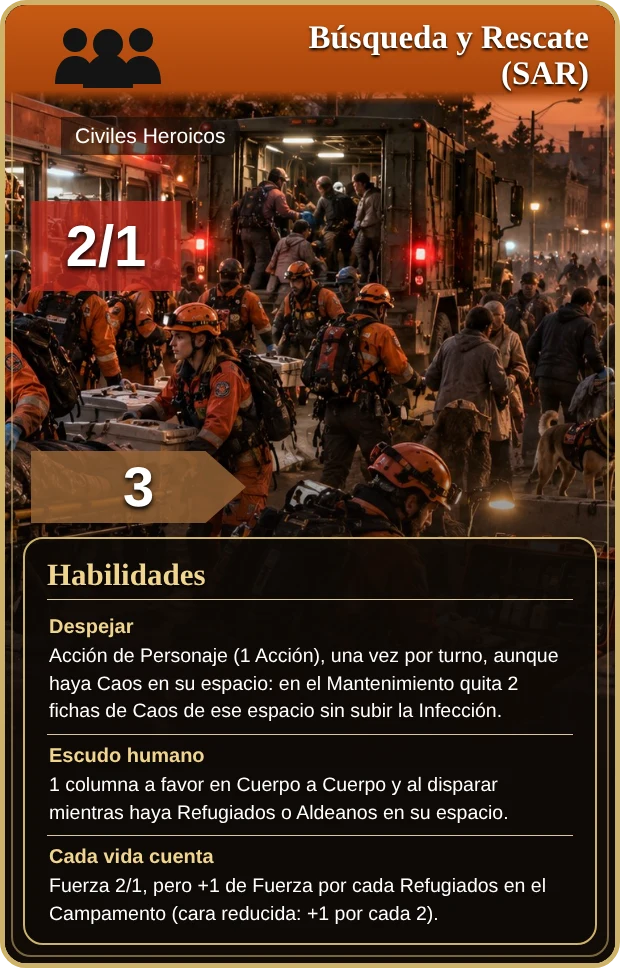
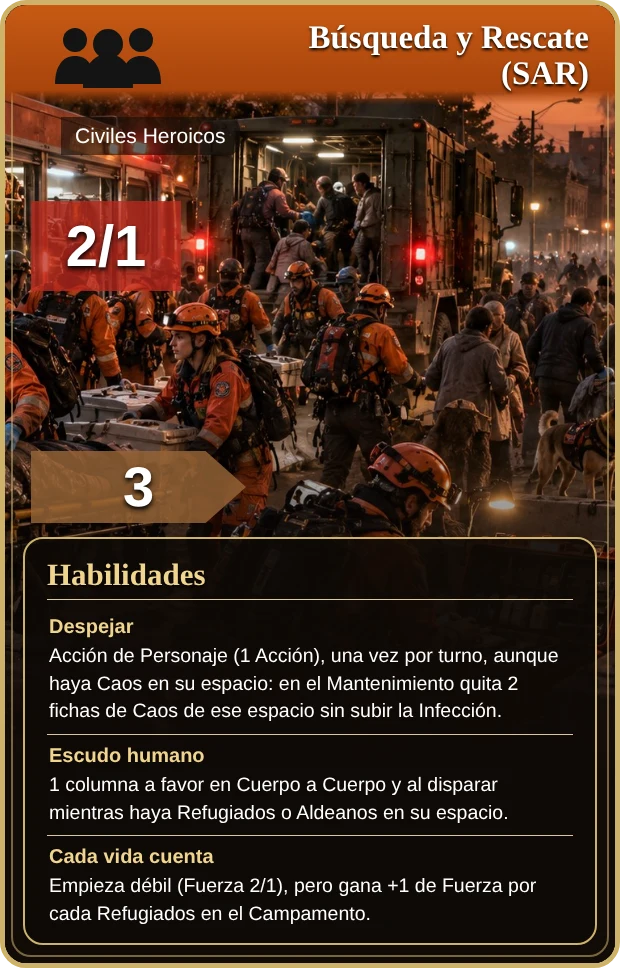
SAR: +1 de Fuerza por Refugiados con las dos caras (sin medio bono)
Claude-Session: https://claude.ai/code/session_01KmRiLam16qxK6v4ebdfK1d

Changed region(s): [[0.0613, 0.8988, 0.8887, 0.9607]]

diff --git a/js/expansions.js b/js/expansions.js
@@ -29,7 +29,7 @@ Object.assign(HEROES, {
   macgyver: { name: 'Angus MacGyver', type: 'hero', cls: 'Ciudadano', full: 3, red: 2, mp: 4, img: 'macgyver', lv: 2, exp: 4, nofire: 1, sci: 1,
     txt: ['<b>Pacifista:</b> no dispara con armas de fuego.', '<b>Ingeniero:</b> puede entrar en el Laboratorio, donde puede Investigar. Si la tirada falla por 1, puede gastar 1 Suministro para sumarle +1.', '<b>Con lo que hay:</b> Acción de Personaje (1 vez por turno): convierte 1 Suministro en 2 Munición.', '<b>Cinta americana:</b> construye Barricadas por 1 Suministro.', '<b>Siempre hay otra salida:</b> al ser atacado por Zeds en una ruta, tira 1 dado: con 4-6 se retira gratis 1 espacio hacia el Centro antes del combate.'] },
   sar: { name: 'Búsqueda y Rescate (SAR)', type: 'civh', cls: 'Civiles Heroicos', full: 2, red: 1, mp: 3, img: 'sar', card: 'h_sar', lv: 2, exp: 4, hf: 2, hr: 2,
-    txt: ['<b>Despejar:</b> Acción de Personaje (1 Acción), una vez por turno, aunque haya Caos en su espacio: en el Mantenimiento quita 2 fichas de Caos de ese espacio sin subir la Infección.', '<b>Escudo humano:</b> 1 columna a favor en combates Cuerpo a Cuerpo y al disparar mientras haya Refugiados o Aldeanos en su espacio.', '<b>Cada vida cuenta:</b> empieza débil (Fuerza 2/1), pero gana +1 de Fuerza por cada Refugiados en el Campamento (con la cara reducida, +1 por cada 2, redondeando abajo).'] },
+    txt: ['<b>Despejar:</b> Acción de Personaje (1 Acción), una vez por turno, aunque haya Caos en su espacio: en el Mantenimiento quita 2 fichas de Caos de ese espacio sin subir la Infección.', '<b>Escudo humano:</b> 1 columna a favor en combates Cuerpo a Cuerpo y al disparar mientras haya Refugiados o Aldeanos en su espacio.', '<b>Cada vida cuenta:</b> empieza débil (Fuerza 2/1), pero gana +1 de Fuerza por cada Refugiados en el Campamento.'] },
   heli: { name: 'Sgto. Lena «Rotor» Kowalski (Helicóptero Medevac)', type: 'hero', cls: 'Aeronave', full: 2, red: 1, mp: 3, mpTxt: '*', img: 'heli', card: 'h_heli', lv: 2, exp: 4, hf: 2, hr: 2, nofire: 1,
     txt: ['<b>Combustible de reserva:</b> al entrar en juego obtienes 3 Suministros.', '<b>Vuelo:</b> su Movimiento es *: no usa la Acción de Mover, solo se mueve volando. Acción de Personaje (1 Suministro), una vez por turno: el helicóptero y un Héroe de su espacio despegan y quedan en el aire, y eliges qué ruta patrullan el resto del turno. Aterrizan después, gratis, donde quieran (cualquier espacio de superficie sin Zeds que no sea Inicial), o siguen en el aire. No pueden llevar a Pepinillos, Horacio, el General Lee ni Carter.', '<b>Patrulla:</b> al despegar eliges la ruta que patrulla el resto del turno. Al inicio de cada turno siguiente, tras revelar el Evento, si sigue en el aire paga 1 Suministro y vuelve a elegir ruta, o aterriza gratis. Mira la siguiente carta de Evento. En esa ruta, todo el turno: <b>Maniobra de distracción</b> (reacción, una vez por turno: antes de que una unidad o Horda Zed se mueva, tira 1 dado; con 3-6 no se mueve, y si falla no puede reintentarlo) y los Zeds tienen 1 columna en contra en todos los combates.', '<b>Despegue de emergencia:</b> cuando una unidad Zed entra en su espacio, tira 1 dado antes del combate: 1 combate normal y no despega; 2 combate normal y, si sigue vivo, despega; 3-6 despega sin combate. Al despegar paga 1 Suministro, puede llevarse al Héroe de su espacio y eliges qué ruta patrulla el resto del turno.', '<b>En el aire:</b> ni el helicóptero ni su Héroe pueden ser atacados ni realizar Acciones.', '<b>Aterrizaje:</b> gratis en cualquier momento de la fase de Acciones, en un espacio de superficie sin Zeds que no sea Inicial. Puede dejar al Héroe en una Cama libre del Hospital (sin ECG ni Infección); si aterriza en un espacio, el Héroe recibe 1 Acción gratis.', '<b>Mantenimiento:</b> recibe 2 Impactos por cara. Las unidades médicas no pueden repararlo de forma habitual: si cae al Hospital, una Curación le retira el ECG; después solo se repara en el Centro, pagando 1 Suministro, una vez por turno.', '<b>No dispara.</b>'] },
   brigada: { name: 'Brigada de Contención Sanitaria', type: 'civh', cls: 'Civiles Heroicos', full: 2, red: 1, mp: 3, img: 'brigada', card: 'h_brigada', lv: 1, exp: 4, hf: 2, hr: 2, nofire: 1,
@@ -121,8 +121,8 @@ newGame = function (levelIdx, lenIdx, personal, exps) {
 const _strength = strength;
 strength = function (u) {
   if (u.key === 'jaque') { const n = allUnits(x => x.space === 'CAMP' && (x.type === 'refugee')).length; return u.flipped ? 1 + Math.floor(n / 2) : 1 + n; }
-  /* SAR (exp. 4), «Cada vida cuenta»: +1 de Fuerza por cada Refugiados en el Campamento (cara reducida: +1 por cada 2, redondeando abajo). */
-  if (u.key === 'sar') { const n = allUnits(x => x.space === 'CAMP' && x.type === 'refugee').length; return _strength(u) + (u.flipped ? Math.floor(n / 2) : n); }
+  /* SAR (exp. 4), «Cada vida cuenta»: +1 de Fuerza por cada Refugiados en el Campamento, con cualquiera de las dos caras. */
+  if (u.key === 'sar') return _strength(u) + allUnits(x => x.space === 'CAMP' && x.type === 'refugee').length;
   return _strength(u);
 };
 const _putUnit = putUnit;

diff --git a/sw.js b/sw.js
@@ -1,7 +1,7 @@
 /* Service worker: permite instalar la web como app y jugar sin conexión.
    Código (html/js/css): red primero, con copia local de reserva. Imágenes y audio: caché primero. */
 'use strict';
-const CACHE = 'doz3-v64';
+const CACHE = 'doz3-v65';
 const SHELL = ['./', 'index.html', 'style.css', 'manifest.webmanifest', 'icons/icon-192.png', 'icons/icon-512.png', 'assets/portada.jpg', 'assets/fondo_nueva.webp', 'assets/fondo_ranking.webp',
   'js/version.js', 'js/data.js', 'js/events.js', 'js/dest.js', 'js/evlog.js', 'js/preview.js', 'js/obituario.js', 'js/engine.js', 'js/game.js', 'js/phases.js', 'js/actions.js', 'js/cardtext.js', 'js/ui.js', 'js/anim.js',
   'js/expansions.js', 'js/expansions2.js', 'js/sfx.js', 'js/sound.js', 'js/opciones.js', 'js/voz.js', 'js/ost.js', 'assets/sonidos/letras/letras.js', 'assets/sonidos/efectos/sfx_disparo.mp3', 'assets/sonidos/efectos/sfx_disparo_largo.mp3', 'js/mapzoom.js', 'js/seedcode.js', 'js/save.js', 'js/main.js', 'js/bot.js'];

diff --git a/js/version.js b/js/version.js
@@ -1,2 +1,2 @@
 /* Fecha y hora de la última build (hora de Madrid). Se actualiza con cada cambio publicado. */
-const BUILD_TIME = '2026-11-01 05:30';
+const BUILD_TIME = '2026-11-01 05:50';

diff --git a/CHANGELOG.md b/CHANGELOG.md
@@ -2,10 +2,15 @@
 
 Registro de cambios por publicación (push a `main`). Lo más reciente, arriba. Cada entrada lleva la misma fecha y hora que `BUILD_TIME` de `js/version.js`.
 
+## 2026-11-01 05:50
+
+### Fixes
+- **SAR, «Cada vida cuenta»:** el bonus es **+1 de Fuerza por cada Refugiados en el Campamento con cualquiera de las dos caras**; se quita el medio bono de la cara reducida, que se había copiado de Jaque Mates sin haberse pedido. Carta regenerada.
+
 ## 2026-11-01 05:30
 
 ### Cambios
-- **Búsqueda y Rescate (SAR):** empieza más débil, con Fuerza **2/1** (antes 3/2), pero **gana +1 de Fuerza por cada Refugiados en el Campamento** (con la cara reducida, +1 por cada 2, redondeando abajo). «Despejar» y «Escudo humano» no cambian. Carta y fichas regeneradas.
+- **Búsqueda y Rescate (SAR):** empieza más débil, con Fuerza **2/1** (antes 3/2), pero **gana +1 de Fuerza por cada Refugiados en el Campamento** (con cualquiera de las dos caras). «Despejar» y «Escudo humano» no cambian. Carta y fichas regeneradas.
 
 ## 2026-11-01 05:00
 
